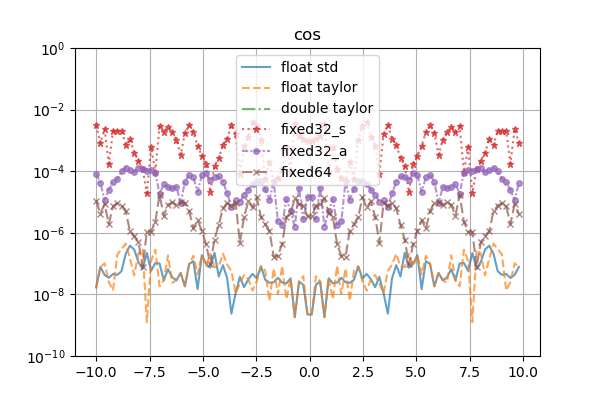
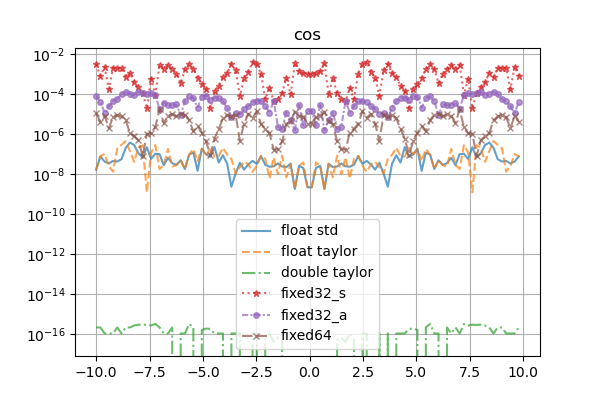
Updated plots: removed fixed ylim

diff --git a/plots/plot.py b/plots/plot.py
@@ -28,7 +28,7 @@ def draw_plots(function):
     plt.plot(*load_data(f'fixed64_taylor_{function}.txt', ref_y), label='fixed64', linestyle=(0, (5, 2)), alpha=0.7, marker='x', markersize=4)
     plt.title(function)
     plt.yscale('log')
-    plt.ylim(1e-10, 1)
+    # plt.ylim(1e-10, 1)
     plt.legend()
     plt.grid(True)
     plt.savefig(f'plot_{function}.png')
